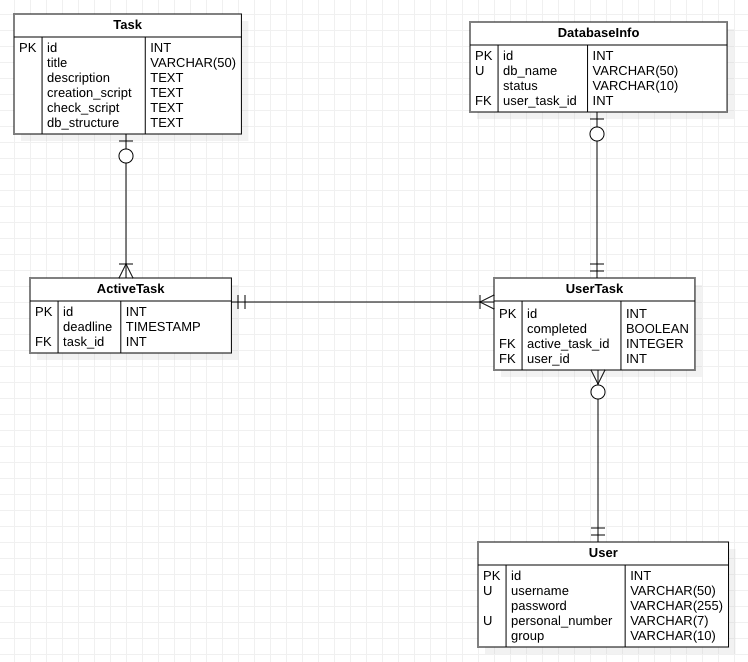
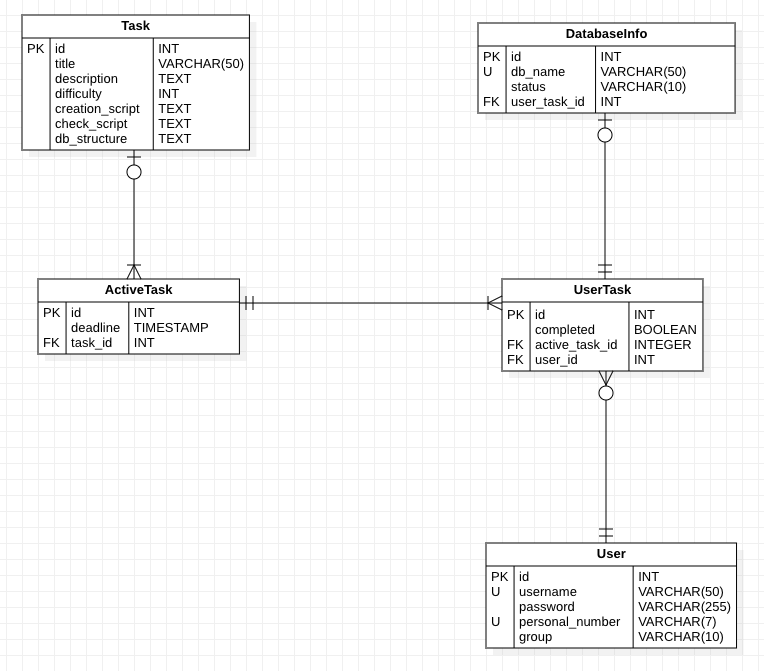
add task and active tasks routes

diff --git a/postgres_tasks/core/migrations/0001_initial.py b/postgres_tasks/core/migrations/0001_initial.py
@@ -1,4 +1,4 @@
-# Generated by Django 4.1.7 on 2023-03-16 19:51
+# Generated by Django 4.1.7 on 2023-03-16 20:28
 
 import datetime
 from django.db import migrations, models
@@ -17,7 +17,7 @@ class Migration(migrations.Migration):
             name='ActiveTask',
             fields=[
                 ('id', models.BigAutoField(auto_created=True, primary_key=True, serialize=False, verbose_name='ID')),
-                ('deadline', models.DateTimeField(default=datetime.datetime(2023, 3, 16, 19, 50, 59, 993073, tzinfo=datetime.timezone.utc))),
+                ('deadline', models.DateTimeField(default=datetime.datetime(2023, 3, 16, 20, 28, 30, 88429, tzinfo=datetime.timezone.utc))),
             ],
         ),
         migrations.CreateModel(
@@ -26,6 +26,7 @@ class Migration(migrations.Migration):
                 ('id', models.BigAutoField(auto_created=True, primary_key=True, serialize=False, verbose_name='ID')),
                 ('title', models.CharField(max_length=50)),
                 ('description', models.TextField()),
+                ('difficulty', models.IntegerField()),
                 ('creation_script', models.FileField(upload_to='creation_scripts')),
                 ('check_script', models.FileField(upload_to='check_scripts')),
                 ('db_structure', models.ImageField(upload_to='dbs_structure')),

diff --git a/postgres_tasks/core/urls.py b/postgres_tasks/core/urls.py
@@ -1,12 +1,21 @@
 from django.urls import path
+from rest_framework import routers
 
-from core import views
+from core.views import db_views
+from core.viewsets.task_viewset import TaskViewSet
+from core.viewsets.active_task_viewset import ActiveTaskViewSet
+
+router = routers.DefaultRouter()
+router.register('tasks', TaskViewSet)
+router.register('active-tasks', ActiveTaskViewSet)
 
 
 urlpatterns = [
-    path('', views.HomeView.as_view()),
-    path('db/', views.DbCreateView.as_view()),
-    path('db/<str:db_name>/', views.DbGetDeleteView.as_view()),
-    path('db/<str:db_name>/command/', views.DbCommandView.as_view()),
-    path('db/<str:db_name>/check/', views.DbCheckView.as_view()),
+    path('databases/', db_views.DbCreateView.as_view()),
+    path('databases/<str:db_name>/', db_views.DbGetDeleteView.as_view()),
+    path('databases/<str:db_name>/command/', db_views.DbCommandView.as_view()),
+    path('databases/<str:db_name>/check/', db_views.DbCheckView.as_view()),
 ]
+
+urlpatterns += router.urls
+  

diff --git a/postgres_tasks/core/views/db_views.py b/postgres_tasks/core/views/db_views.py
@@ -1,19 +1,12 @@
-from django.shortcuts import render
-from django import views
 from rest_framework import views
 from rest_framework.response import Response
 from rest_framework import status
 from rest_framework import generics
 
-from .tasks import create_db, delete_db
-from .models import DatabaseInfo
-from .serializers import DatabaseInfoSerializer
-from .service import send_sql_command, check_task_completion
-
-
-class HomeView(views.View):
-    def get(self, request):
-        return render(request, 'core/index.html')
+from core.tasks import create_db, delete_db
+from core.models import DatabaseInfo
+from core.serializers import DatabaseInfoSerializer
+from core.service import send_sql_command, check_task_completion
 
 
 class DbCreateView(views.APIView):

diff --git a/postgres_tasks/core/serializers.py b/postgres_tasks/core/serializers.py
@@ -1,9 +1,21 @@
 from rest_framework import serializers
 
-from .models import DatabaseInfo
+from .models import DatabaseInfo, Task, ActiveTask
 
 
 class DatabaseInfoSerializer(serializers.ModelSerializer):
     class Meta:
         model = DatabaseInfo
+        fields = '__all__'
+
+
+class TaskSerializer(serializers.ModelSerializer):
+    class Meta:
+        model = Task
+        fields = ['id', 'title', 'description', 'difficulty']
+
+
+class ActiveTaskSerializer(serializers.ModelSerializer):
+    class Meta:
+        model = ActiveTask
         fields = '__all__'

diff --git a/postgres_tasks/core/models.py b/postgres_tasks/core/models.py
@@ -1,5 +1,3 @@
-from datetime import datetime
-
 from django.db import models
 from django.utils.timezone import now
 
@@ -9,6 +7,7 @@ from .utils.database_status import DatabaseStatus
 class Task(models.Model):
     title = models.CharField(max_length=50)
     description = models.TextField()
+    difficulty = models.IntegerField()
     creation_script = models.FileField(upload_to='creation_scripts')
     check_script = models.FileField(upload_to='check_scripts')
     db_structure = models.ImageField(upload_to='dbs_structure')

diff --git a/postgres_tasks/core/viewsets/active_task_viewset.py b/postgres_tasks/core/viewsets/active_task_viewset.py
@@ -1,0 +1,10 @@
+from rest_framework import viewsets
+
+from core.models import ActiveTask
+from core.serializers import ActiveTaskSerializer
+
+
+class ActiveTaskViewSet(viewsets.ReadOnlyModelViewSet):
+    queryset = ActiveTask.objects.all()
+    serializer_class = ActiveTaskSerializer
+    lookup_field = 'id'

diff --git a/postgres_tasks/core/viewsets/task_viewset.py b/postgres_tasks/core/viewsets/task_viewset.py
@@ -1,0 +1,10 @@
+from rest_framework import viewsets
+
+from core.models import Task
+from core.serializers import TaskSerializer
+
+
+class TaskViewSet(viewsets.ReadOnlyModelViewSet):
+    queryset = Task.objects.all()
+    serializer_class = TaskSerializer
+    lookup_field = 'id'
